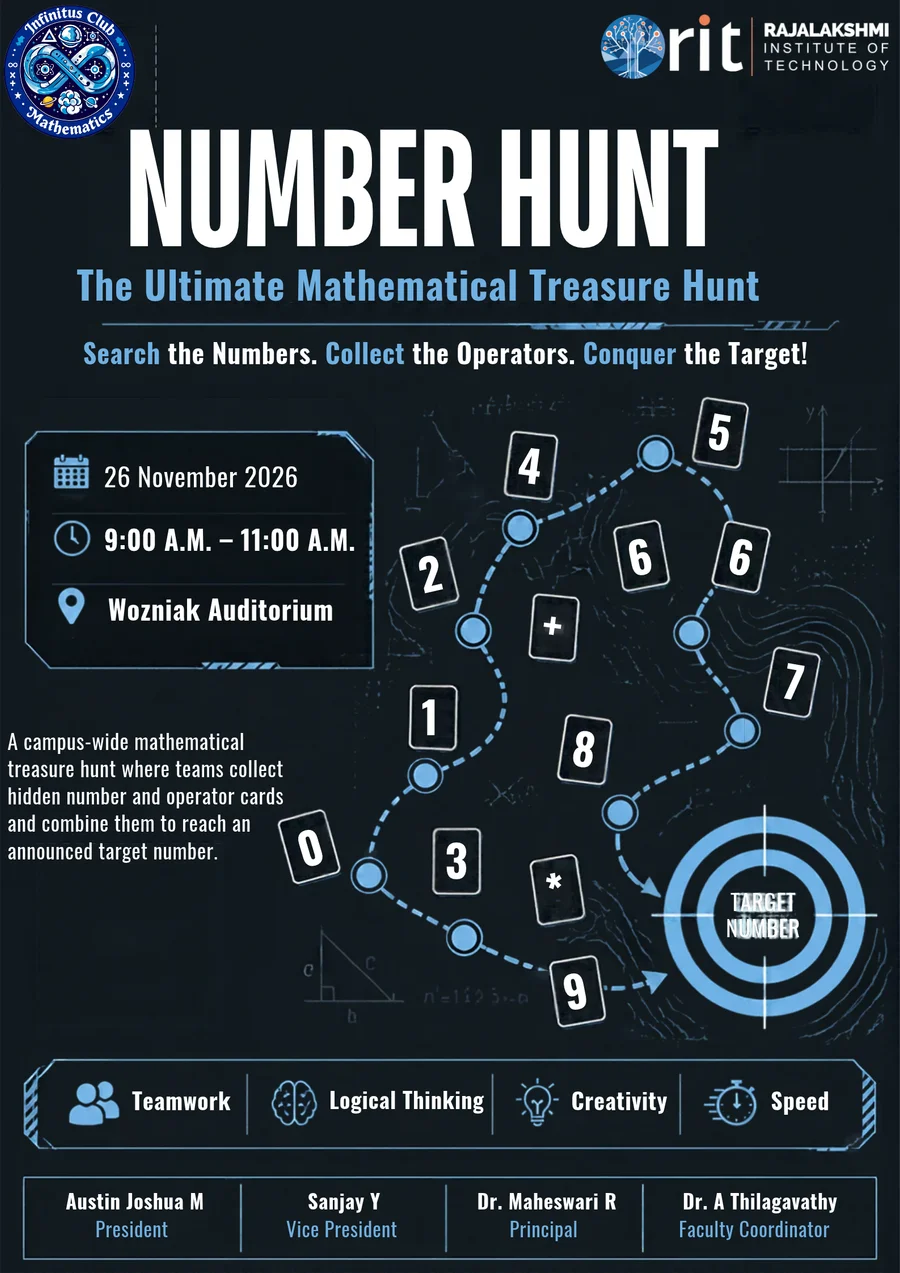
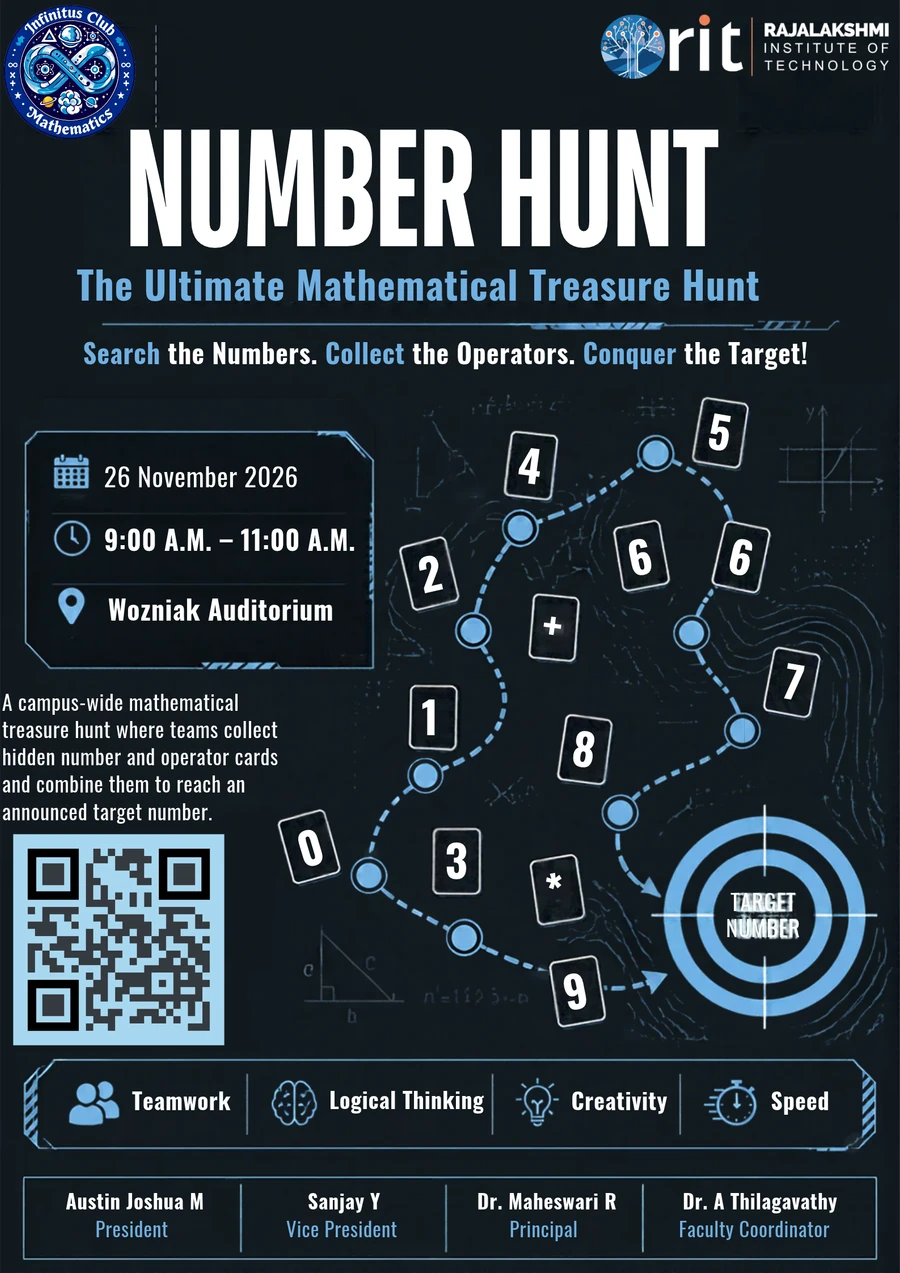
feat(events): update Number Hunt poster with QR code and link official registration form

Changed region(s): [[0.0, 0.5515, 0.3111, 0.8272]]

diff --git a/lib/data.js b/lib/data.js
@@ -380,6 +380,8 @@ export const EVENTS = [
     status: 'upcoming',
     venue: 'Wozniak Auditorium · 9:00–11:00 AM',
     coverImageUrl: '/events/number-hunt.webp',
+    registrationFormUrl:
+      'https://forms.gle/VVHp5QnASywyxmJ87',
     featured: true,
   },
   {
